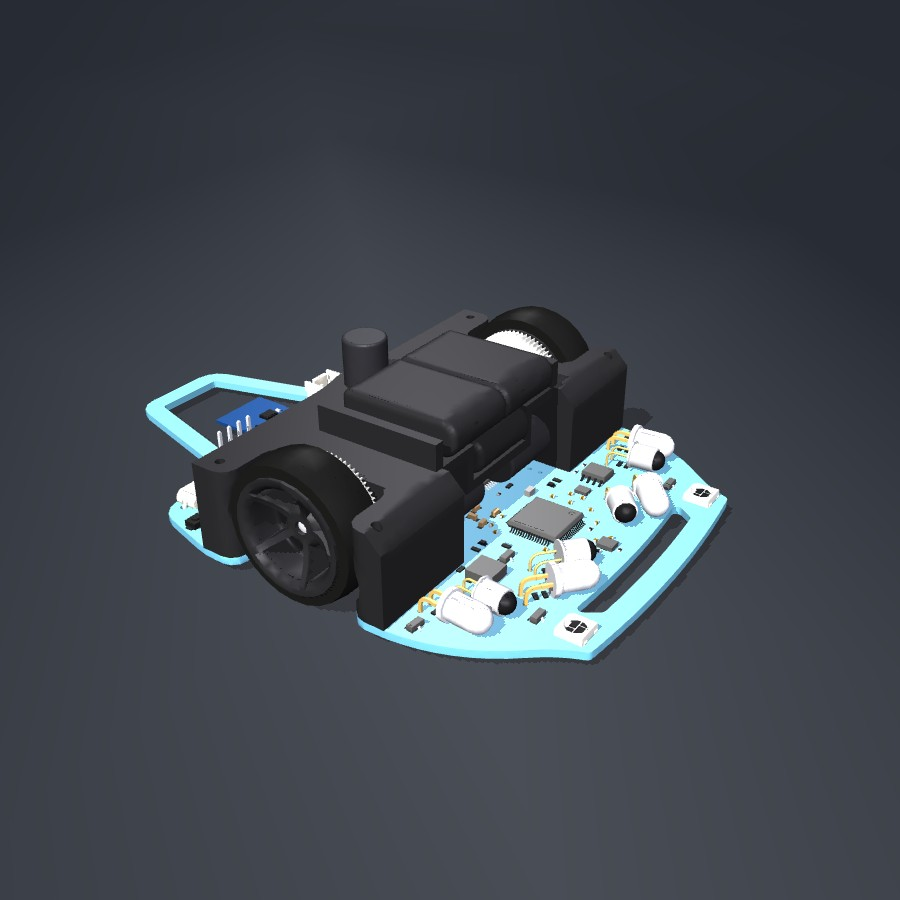
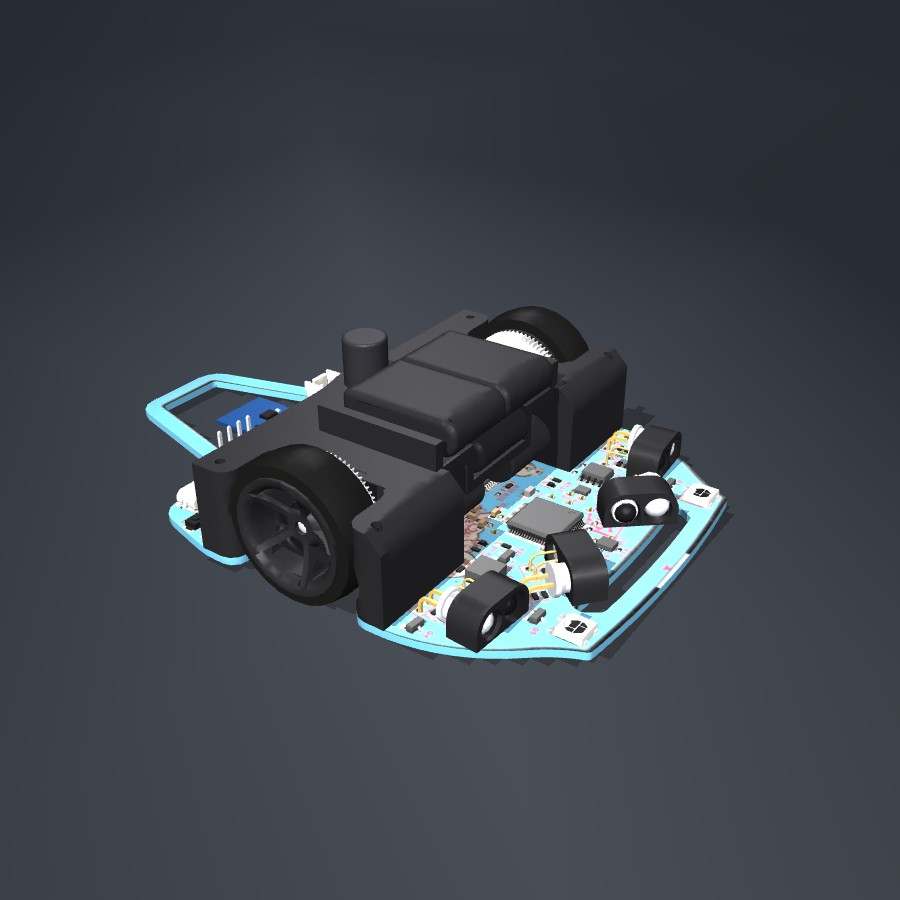
Fujin's board's art and its sensors' caps, as its team's photos show them: its board's two faces textured with its photos of the bare board (board.py: raiju.team's pcb-1.png and pcb-2.png, downloaded at build time and pinned by their SHA-256; each mapped by an affine fit to its four mounting holes a

diff --git a/ratasim/fujin/cad.py b/ratasim/fujin/cad.py
@@ -1,21 +1,26 @@
 """Fujin's meshes from its STEP (boards/Fujin_V1/Fujin_Body_Full.step in its repository: its board with every
 component and its mechanics): every part where the STEP puts it, tessellated with gmsh (as ZoroBot3's: zorobot/cad.py)
 and merged per moving body and colour, in the robot frame (mm: x right, y forward, z up, origin on the axle between
-the wheels, found from the two tyres).
+the wheels, found from the two tyres). Its board's two faces textured with its team's photos of them (board.py: its
+art, printed in colour, is in none of its files); the black printed caps its IR sensors wear in its photos (not in its
+STEP) made here, round each emitter and phototransistor pair.
 
     python -m ratasim.fujin.cad [STEP OUT_DIR]
 
-The simulator calls ensure(), which needs gmsh only when the meshes are missing or older than the STEP or this file.
+The simulator calls ensure(), which needs gmsh only when the meshes are missing or older than the STEP, this file or
+board.py.
 
-Writes OUT_DIR/<body>_<n>.stl and OUT_DIR/manifest.json: [{"file", "body", "rgba", "parts"}], body in chassis,
-wheel_l, wheel_r.
+Writes OUT_DIR/<body>_<n>.stl, OUT_DIR/board_{top,bottom}.obj and .png (its faces, UVs on their textures) and
+OUT_DIR/manifest.json: [{"file", "body", "rgba", "parts"[, "texture"]}], body in chassis, wheel_l, wheel_r.
 """
 import json
+import math
 import os
 import sys
 
 import numpy as np
 
+from . import board as B
 from . import config as F
 
 WHEEL_PARTS = ('pneu_miniz', 'MM_wheel', 'spur_gear', 'MM_Encoder_hub')     # turn with the wheel
@@ -40,6 +45,12 @@ PART_RGB = (                        # name contains: colour
     (('9.6.1.1', '9.63.1.1'), (235, 228, 210)),      # its JST connectors
 )
 UNCOLOURED = (0, 0, 255)            # what gmsh gives a part with no colour in the STEP
+# Its IR sensors' caps (its photos: black PLA, as its frame): each a block round its emitter and its phototransistor,
+# both lying along the sensor's axis, its section two round lobes over them down to the board, a hole for each, its
+# front flush with theirs.
+CAP_LEN_MM = 6.0
+CAP_RADIUS_MM = 3.7                 # its lobes' (the emitters are 5 mm LEDs, 5.9 at their flange)
+CAP_HOLES_MM = (2.6, 2.75)          # its holes' radii: the emitter's, the phototransistor's can's
 
 
 def colour(name, rgb, tris):
@@ -73,8 +84,81 @@ def body(name, tris):
     return 'chassis'
 
 
+def caps(parts):
+    """The caps' triangles (robot frame, mm): for each sensor (config.IR_SENSORS: its emitter's centre and axis), the
+    parts lying by its emitter (their centres within 8 mm of it, 2 to 5 mm over the board), its phototransistor the
+    biggest of them besides the emitter."""
+    import gmsh
+    from ..zorobot.cad import outward
+    top = F.PCB_BOTTOM_MM + 1.5
+    out = []
+    for _, (x, y), deg in F.IR_SENSORS.values():
+        a = np.array([math.cos(math.radians(deg)), math.sin(math.radians(deg))])
+        side = np.array([a[1], -a[0]])            # its local x (right of its axis)
+        near = []
+        for _, _, t in parts:
+            v = t.reshape(-1, 3)
+            c = (v.min(0) + v.max(0)) / 2
+            if np.hypot(c[0] - x, c[1] - y) < 8 and top + 2 < c[2] < top + 5:
+                near.append((len(t), c, v))
+        emitter = min(near, key=lambda n: np.hypot(n[1][0] - x, n[1][1] - y))
+        pt = max((n for n in near if n is not emitter), key=lambda n: n[0])
+        front = max(float(((v[:, :2] - (x, y)) @ a).max()) for _, _, v in near)
+        z = emitter[1][2]
+        lobes = ((0.0, CAP_HOLES_MM[0]), (float((pt[1][:2] - (x, y)) @ side), CAP_HOLES_MM[1]))
+        gmsh.initialize()
+        gmsh.option.setNumber('General.Terminal', 0)
+        occ = gmsh.model.occ
+        y0 = front - CAP_LEN_MM                     # local: x right, y along its axis from the emitter, z up
+        solid = [(3, occ.addCylinder(u, y0, z, 0, CAP_LEN_MM, 0, CAP_RADIUS_MM)) for u, _ in lobes]
+        lo, hi = min(u for u, _ in lobes), max(u for u, _ in lobes)
+        solid += [(3, occ.addBox(lo, y0, top, hi - lo, CAP_LEN_MM, z + CAP_RADIUS_MM - top)),
+                  (3, occ.addBox(lo - CAP_RADIUS_MM, y0, top, hi - lo + 2 * CAP_RADIUS_MM, CAP_LEN_MM, z - top))]
+        body, _ = occ.fuse(solid[:1], solid[1:])
+        cut = [(3, occ.addCylinder(u, y0 - 1, z, 0, CAP_LEN_MM + 2, 0, r)) for u, r in lobes]
+        cut.append((3, occ.addBox(lo - 10, y0 - 1, top - 10, hi - lo + 20, CAP_LEN_MM + 2, 10)))
+        body, _ = occ.cut(body, cut)
+        occ.synchronize()
+        gmsh.option.setNumber('Mesh.MeshSizeMax', 1.0)
+        gmsh.option.setNumber('Mesh.MeshSizeFromCurvature', 16)
+        gmsh.model.mesh.generate(2)
+        tags, xyz, _ = gmsh.model.mesh.getNodes()
+        index = np.zeros(int(tags.max()) + 1, int)
+        index[tags.astype(int)] = np.arange(len(tags))
+        xyz = xyz.reshape(-1, 3)
+        faces = []
+        for d, v in body:
+            for _, s in gmsh.model.getBoundary([(d, v)], oriented=False):
+                types, _, nodes = gmsh.model.mesh.getElements(2, abs(s))
+                faces += [index[nd.astype(int).reshape(-1, 3)] for ty, nd in zip(types, nodes) if ty == 2]
+        gmsh.finalize()
+        t = np.concatenate(outward(faces, xyz))
+        xy = (x, y) + t[..., :1] * side + t[..., 1:2] * a
+        out.append(np.concatenate([xy, t[..., 2:]], axis=-1))
+    return np.concatenate(out)
+
+
+def board_faces(tris, out):
+    """The board's triangles: its top and bottom faces written as board_top.obj and board_bottom.obj, UVs on their
+    textures (board.py); the rest (its edges, its holes' walls) returned."""
+    n = np.cross(tris[:, 1] - tris[:, 0], tris[:, 2] - tris[:, 0])
+    n = n[:, 2] / np.linalg.norm(n, axis=1)
+    z0, z1 = tris[..., 2].min(), tris[..., 2].max()
+    faces = {'top': (n > 0.99) & (np.abs(tris[..., 2] - z1).max(1) < 0.01),
+             'bottom': (n < -0.99) & (np.abs(tris[..., 2] - z0).max(1) < 0.01)}
+    for face, m in faces.items():
+        v, idx = np.unique(tris[m].reshape(-1, 3).round(4), axis=0, return_inverse=True)
+        idx = idx.reshape(-1, 3) + 1
+        with open(os.path.join(out, f'board_{face}.obj'), 'w') as f:
+            f.write(''.join(f'v {a:.4f} {b:.4f} {c:.4f}\n' for a, b, c in v))
+            f.write(''.join(f'vt {u:.5f} {w:.5f}\n' for u, w in B.uv(v[:, :2])))
+            f.write(''.join(f'f {a}/{a} {b}/{b} {c}/{c}\n' for a, b, c in idx))
+    return tris[~(faces['top'] | faces['bottom'])]
+
+
 def build(step=F.CAD_STEP, out=F.CAD_MESHES):
     from ..zorobot.cad import tessellate, write_stl
+    B.download()
     parts = tessellate(step)
     tyres = [t.reshape(-1, 3) for n, _, t in parts if TYRE in n]
     if len(tyres) != 2:
@@ -82,13 +166,19 @@ def build(step=F.CAD_STEP, out=F.CAD_MESHES):
     axle = np.mean([(v.min(0) + v.max(0)) / 2 for v in tyres], axis=0)
     if np.abs(axle - F.AXLE_IN_STEP_MM).max() > 0.5:
         raise SystemExit(f'Fujin: its tyres centred at {axle.round(2)}, not at {F.AXLE_IN_STEP_MM} (config.py)')
+    os.makedirs(out, exist_ok=True)
+    B.textures(out, BOARD_RGB)
+    manifest = [{'file': f'board_{face}.obj', 'body': 'chassis', 'rgba': [1, 1, 1, 1], 'parts': ['Board'],
+                 'texture': f'board_{face}.png'} for face in ('top', 'bottom')]
     groups = {}
     for name, rgb, t in parts:
         t = t - axle
         rgb = colour(name, rgb, t)
+        if rgb == BOARD_RGB:
+            t = board_faces(t, out)
         groups.setdefault((body(name, t), rgb), []).append((name, t))
-    os.makedirs(out, exist_ok=True)
-    manifest = []
+    parts = [(n, rgb, t - axle) for n, rgb, t in parts]
+    groups.setdefault(('chassis', PRINTED_RGB), []).append(('IR sensors\' caps', caps(parts)))
     for i, ((b, rgb), items) in enumerate(sorted(groups.items())):
         f = f'{b}_{i:02d}.stl'
         write_stl(os.path.join(out, f), np.concatenate([t for _, t in items]))
@@ -100,9 +190,10 @@ def build(step=F.CAD_STEP, out=F.CAD_MESHES):
 
 
 def ensure(step=F.CAD_STEP, out=F.CAD_MESHES):
-    """The meshes' directory, built first if they are missing or older than the STEP or this file (its colours)."""
+    """The meshes' directory, built first if they are missing or older than the STEP, this file (its colours, its
+    caps) or board.py (its textures)."""
     m = os.path.join(out, 'manifest.json')
-    if os.path.exists(m) and os.path.getmtime(m) >= os.path.getmtime(__file__) and \
+    if os.path.exists(m) and os.path.getmtime(m) >= max(os.path.getmtime(__file__), os.path.getmtime(B.__file__)) and \
             (not os.path.exists(step) or os.path.getmtime(m) >= os.path.getmtime(step)):
         return out
     if not os.path.exists(step):

diff --git a/ratasim/fujin/board.py b/ratasim/fujin/board.py
@@ -1,0 +1,80 @@
+"""Fujin's board's faces as its team's photos show them (raiju.team/images/fujin/pcb-1.png and pcb-2.png: its bare
+board from below and from above, on a table, square to the camera): its art (the clouds, the maze round its middle
+hole, 風神, the dark blue nose of its bottom face) is printed in colour at its maker's and is in none of its files
+(its Altium board, its DXFs, its STEP), only in those photos. They are downloaded at build time (its site has no
+licence: nothing of it is copied here) and pinned by their SHA-256.
+
+Each photo is mapped onto the board's face by an affine map from the robot frame (mm) to its pixels, fitted to its
+four mounting holes (x = +-37, y = +-16.5 in its STEP) and its middle hole (0, -15), found in it as the centroids of
+their dark pixels (the table under the board): under a pixel (0.15 mm) off at every one. pcb-1.png shows its bottom
+face seen from below: mirrored, its left on the right.
+
+textures(out) writes board_top.png and board_bottom.png over FRAME, both seen from above (u = x, v = y)."""
+import hashlib
+import os
+import urllib.request
+
+from . import config as F
+
+URL = 'https://raiju.team/images/fujin/'
+PHOTOS = {      # face: its photo, its SHA-256, the affine map (robot mm -> its pixels): (a, b, c), (d, e, f)
[1 lines of base64/hex data omitted]
+            ((5.5004, -0.0063, 243.392), (0.0065, -5.5256, 299.476))),
[1 lines of base64/hex data omitted]
+               ((-5.4818, 0.0084, 245.579), (-0.0127, -5.4435, 306.123))),
+}
+FRAME = (-40.5, -70.5, 40.5, 50.5)      # the textures' extent (x0, y0, x1, y1, mm): its outline and half a mm
+PX_MM = 8                               # the textures' resolution (its photos: 5.5 pixels a mm)
+# The simulator's lights wash its photos out (as its board's colour in cad.py, darker than in them): its board's blue
+# (the median of its pixels near PHOTO_BLUE) turned to cad.py's, the rest darkened by GAIN.
+PHOTO_BLUE = (140, 195, 210)
+GAIN = 0.85
+PHOTOS_DIR = os.path.join(F.BUILD, 'photos')
+
+
+def _sha256(path):
+    with open(path, 'rb') as f:
+        return hashlib.sha256(f.read()).hexdigest()
+
+
+def download():
+    """Its photos in PHOTOS_DIR (once), checked."""
+    os.makedirs(PHOTOS_DIR, exist_ok=True)
+    for name, sha, _ in PHOTOS.values():
+        path = os.path.join(PHOTOS_DIR, name)
+        if not os.path.exists(path):
+            req = urllib.request.Request(URL + name, headers={'User-Agent': 'ratasim'})     # Python's refused
+            data = urllib.request.urlopen(req, timeout=60).read()
+            with open(path + '.part', 'wb') as f:
+                f.write(data)
+            os.replace(path + '.part', path)
+        if _sha256(path) != sha:
+            os.unlink(path)
+            raise SystemExit(f'Fujin: {name} is not the photo pinned in ratasim/fujin/board.py (SHA-256 {sha})')
+
+
+def textures(out, blue):
+    """board_top.png and board_bottom.png: each face's photo resampled over FRAME, seen from above (its rows from
+    y1 down to y0), its board's blue turned to blue (RGB), its pixels the nearer to it the more."""
+    import numpy as np
+    from PIL import Image
+    download()
+    x0, y0, x1, y1 = FRAME
+    size = (int(round((x1 - x0) * PX_MM)), int(round((y1 - y0) * PX_MM)))
+    for face, (name, _, ((a, b, c), (d, e, f))) in PHOTOS.items():
+        img = Image.open(os.path.join(PHOTOS_DIR, name)).convert('RGB')
+        # a texture's pixel (i, j) is at x = x0 + i / PX_MM, y = y1 - j / PX_MM; its photo's pixel, a x + b y + c...
+        s = 1 / PX_MM
+        coeffs = (a * s, -b * s, a * x0 + b * y1 + c, d * s, -e * s, d * x0 + e * y1 + f)
+        px = np.asarray(img.transform(size, Image.AFFINE, coeffs, Image.BICUBIC), float)
+        near = np.linalg.norm(px - PHOTO_BLUE, axis=2) < 40
+        gain = np.array(blue) / np.median(px[near], axis=0)
+        w = np.clip(1.5 - np.linalg.norm(px - np.median(px[near], axis=0), axis=2) / 40, 0, 1)[..., None]
+        px = px * (w * gain + (1 - w) * GAIN)
+        Image.fromarray(px.clip(0, 255).astype(np.uint8)).save(os.path.join(out, f'board_{face}.png'))
+
+
+def uv(xy):
+    """The textures' coordinates of points (n, 2) mm: (0, 0) at FRAME's corner x0, y0."""
+    x0, y0, x1, y1 = FRAME
+    return (xy - (x0, y0)) / (x1 - x0, y1 - y0)

diff --git a/ratasim/fujin/model.py b/ratasim/fujin/model.py
@@ -1,6 +1,7 @@
 """The MuJoCo scene with Fujin: the same maze as Ratatron's (ratasim/model.py) and the robot from its STEP
-(fujin/cad.py: every part's mesh, merged per body and colour); simple shapes for its collisions: boxes over its
-board's outline (walls only: its board rides 2 mm over the floor), its two tyres, two skids under its nose and tail."""
+(fujin/cad.py: every part's mesh, merged per body and colour, its board's faces textured with its photos, its
+sensors' caps); simple shapes for its collisions: boxes over its board's outline (walls only: its board rides 2 mm
+over the floor), its two tyres, two skids under its nose and tail."""
 import json
 import os
 import re
@@ -19,8 +20,8 @@ def _meshes():
 
 
 def _visual(entry, pos=(0, 0, 0)):
-    return (f'<geom class="fvisual" mesh="f_{entry["file"][:-4]}" rgba="{_f(*entry["rgba"])}" '
-            f'pos="{_f(*(v * MM for v in pos))}"/>')
+    look = f'material="f_{entry["file"][:-4]}"' if 'texture' in entry else f'rgba="{_f(*entry["rgba"])}"'
+    return f'<geom class="fvisual" mesh="f_{entry["file"][:-4]}" {look} pos="{_f(*(v * MM for v in pos))}"/>'
 
 
 def defaults_xml():
@@ -37,6 +38,9 @@ def assets_xml():
         tyre = any(cad.TYRE in p for p in e['parts']) and e['body'] != 'chassis'
         scale = (MM, MM * TIRE_SCALE, MM * TIRE_SCALE) if tyre else (MM, MM, MM)
         out += f'<mesh name="f_{e["file"][:-4]}" file="{d}/{e["file"]}" scale="{_f(*scale)}" inertia="shell"/>'
+        if 'texture' in e:          # its board's faces (board.py)
+            out += (f'<texture name="f_{e["file"][:-4]}" type="2d" file="{d}/{e["texture"]}"/>'
+                    f'<material name="f_{e["file"][:-4]}" texture="f_{e["file"][:-4]}" specular="0.3" shininess="0.4"/>')
     return out
 
 

diff --git a/README.md b/README.md
@@ -251,7 +251,7 @@ ratasim/gamusino/   Gamusino: its model from the GLB in its repository, its ESP3
 ratasim/bulebule/   Bulebule: its board from its layout, its parts from KiCad's library, its simulated chip (fw/), runner
 ratasim/nezumibot/  NezumiBot: its assembled 3D model (assets/), its simulated chip (fw/), runner
 ratasim/perenquen/  Perenquén: its meshes from its FreeCAD assembly (assets/, cad.py), its simulated dsPIC (fw/), runner
-ratasim/fujin/      Fujin: its model from its STEP (cad.py), its firmware on our BSP and simulated STM32G474 (fw/), runner
+ratasim/fujin/      Fujin: its model from its STEP and its board's photos (cad.py, board.py), its firmware on our BSP and simulated STM32G474 (fw/), runner
 ratasim/futura/     Futura: its files downloaded at build time, its model, its simulated STM32F405 and ST library (fw/)
 ratasim/ukmarsbot/  UKMARSBOT: its model from its KiCad boards and Gerbers (cad.py, pcb.py), its Nano's ATmega328P (fw/)
 ratasim/opencm3/    the part of libopencm3 the simulated chips of ZoroBot3 and NezumiBot share
@@ -287,5 +287,6 @@ ZoroBot3, Bulebule and NezumiBot are GPLv3; Gamusino's and Fujin's repositories 
 Eurobotics Engineering) GPLv2+; Gamusino's gyro library, STM32duino LSM6DSR (STMicroelectronics, BSD-3), is
 downloaded at build time. Futura's page (Green Ye, micromouseusa.com) gives no licence: its firmware template, its
 board's Gerber files and its printed parts are downloaded at build time, pinned by their SHA-256, and stay out of git; ST's library is not used
-(`ratasim/futura/fw` simulates the part of its API the template calls).
+(`ratasim/futura/fw` simulates the part of its API the template calls). Fujin's team's photos of its board
+(raiju.team), its art's only source, are downloaded at build time, pinned by their SHA-256, and stay out of git.
 The meshes made from ZoroBot3's, Gamusino's, Bulebule's and Fujin's CAD stay out of git; NezumiBot's and Perenquén's are in `ratasim/nezumibot/assets` and `ratasim/perenquen/assets`, under their licences.

diff --git a/docs/robots.md b/docs/robots.md
@@ -202,7 +202,12 @@ made from the submodule at build time)
   motors, gears, Mini-Z wheels and fan), tessellated with gmsh at build time (`ratasim/fujin/cad.py`, as ZoroBot3's)
   and merged per body and colour; the axle found from its tyres. Its colours are its team's photos'
   ([raiju.team](https://raiju.team)), not its STEP's: its board sky blue, its printed frame, wheels and fan black,
-  its tyres and its battery's tape black, its gears white, its emitters water-clear. Collisions: boxes over its
+  its tyres and its battery's tape black, its gears white, its emitters water-clear. Its board's art (clouds, the
+  maze round its middle hole, 風神, its dark blue nose underneath) is printed in colour and in none of its files: its
+  board's two faces are textured with its team's photos of the bare board (`ratasim/fujin/board.py`: downloaded at
+  build time, pinned by their SHA-256, mapped by its mounting holes and its middle hole). The black printed caps its
+  IR sensors wear in its photos, not in its STEP, are made round each emitter and phototransistor pair (two lobes,
+  a hole for each; drawn only: the beams do not see them). Collisions: boxes over its
   board's outline, its tyres, two skids. Its tyres are drawn at its firmware's radius (13.25 mm; 12.6 in its CAD).
 - **Sensors:** where its STEP puts the emitters: the front pair looking ahead, the side pair crossed, 50 deg off
   ahead. The side readings scaled to its firmware's references with the robot centred in a cell (180 mm left,
